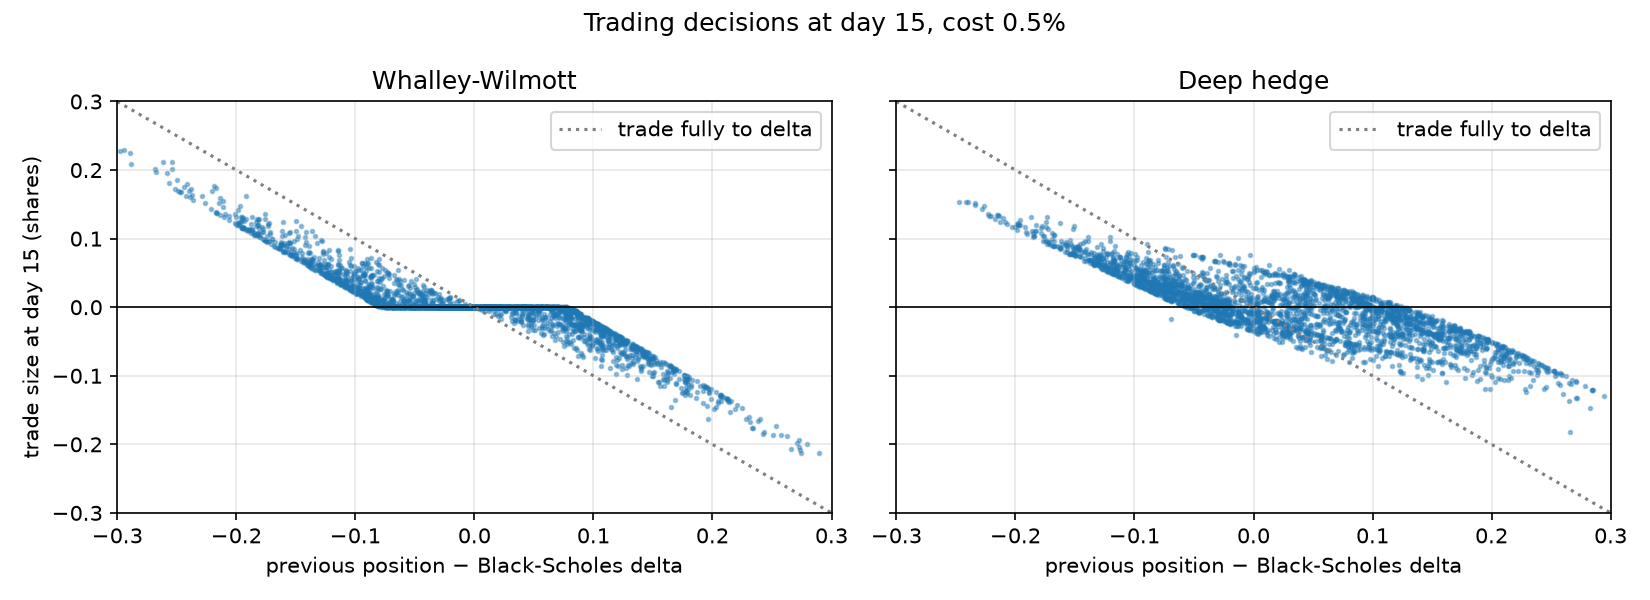
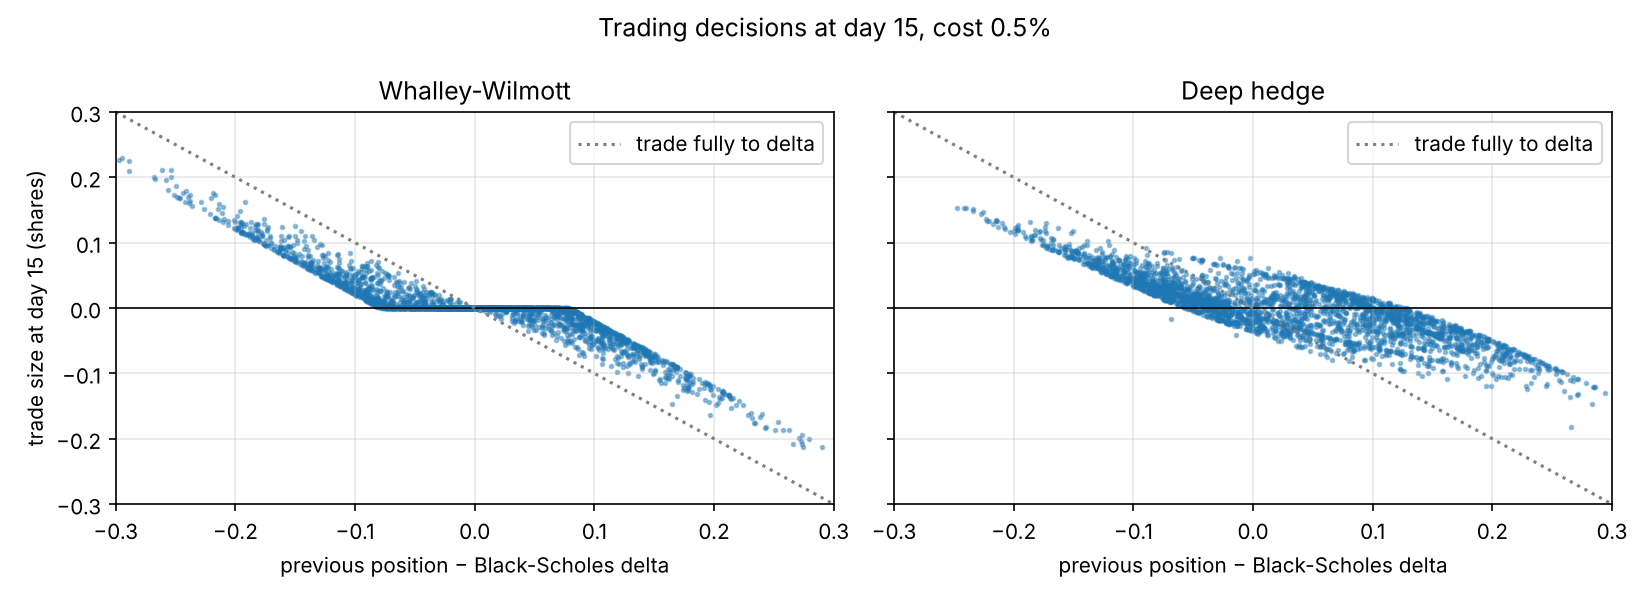
Combine training curves and strategy comparison into one figure

diff --git a/experiments/04_deep_hedging.py b/experiments/04_deep_hedging.py
@@ -12,8 +12,8 @@ figures can be regenerated without retraining. Delete models/ to retrain.
 Run from the repository root:
     python experiments/04_deep_hedging.py
 
-Saves figures/deep_training.png, figures/deep_vs_delta.png,
-figures/deep_comparison.png and figures/deep_no_trade.png,
+Saves figures/deep_comparison.png (training curves and risk of all strategies),
+figures/deep_vs_delta.png and figures/deep_no_trade.png,
 and prints a Markdown table.
 """
 
@@ -121,18 +121,35 @@ def main():
 
     FIGURES.mkdir(exist_ok=True)
 
-    # --- Figure 1: training curves ---------------------------------------
-    fig, ax = plt.subplots(figsize=(6, 4))
+    # --- Figure 1: training curves and hedging risk of all strategies -----
+    # Left: the training loss of the three deep hedgers.
+    # Right: the CVaR of all strategies on the test paths.
+    fig, (ax_left, ax_right) = plt.subplots(1, 2, figsize=(13, 4.5))
+
     for cost in COSTS:
-        ax.plot(losses[cost], linewidth=0.8, label=f"cost {cost:.1%}")
-    ax.set_xlabel("training iteration")
-    ax.set_ylabel(f"CVaR {ALPHA:.0%} loss (training batch)")
-    ax.set_ylim(0, 6)
-    ax.set_title("Training of the deep hedgers")
-    ax.grid(True, alpha=0.3)
-    ax.legend()
+        ax_left.plot(losses[cost], linewidth=0.8, label=f"cost {cost:.1%}")
+    ax_left.set_xlabel("training iteration")
+    ax_left.set_ylabel(f"CVaR {ALPHA:.0%} loss (training batch)")
+    ax_left.set_ylim(0, 6)
+    ax_left.set_title("Training of the deep hedgers")
+    ax_left.grid(True, alpha=0.3)
+    ax_left.legend()
+
+    width = 0.2
+    x = np.arange(len(COSTS))
+    for i, name in enumerate(STRATEGIES):
+        values = [results[c][name]["cvar"] for c in COSTS]
+        ax_right.bar(x + (i - 1.5) * width, values, width, label=name)
+    ax_right.set_xticks(x)
+    ax_right.set_xticklabels([f"cost {c:.1%}" for c in COSTS])
+    ax_right.set_ylabel(f"CVaR {ALPHA:.0%} of loss")
+    ax_right.set_title("Hedging risk on test paths")
+    ax_right.grid(True, axis="y", alpha=0.3)
+    ax_right.legend()
+
+    fig.suptitle("Deep hedging vs classical strategies (N = 30, Black-Scholes premium)")
     fig.tight_layout()
-    fig.savefig(FIGURES / "deep_training.png", dpi=150)
+    fig.savefig(FIGURES / "deep_comparison.png", dpi=150)
     plt.close(fig)
 
     # --- Figure 2: learned hedge vs Black-Scholes delta (no costs) ---------
@@ -160,24 +177,7 @@ def main():
     fig.savefig(FIGURES / "deep_vs_delta.png", dpi=150)
     plt.close(fig)
 
-    # --- Figure 3: CVaR of all strategies --------------------------------
-    width = 0.2
-    x = np.arange(len(COSTS))
-    fig, ax = plt.subplots(figsize=(7, 4))
-    for i, name in enumerate(STRATEGIES):
-        values = [results[c][name]["cvar"] for c in COSTS]
-        ax.bar(x + (i - 1.5) * width, values, width, label=name)
-    ax.set_xticks(x)
-    ax.set_xticklabels([f"cost {c:.1%}" for c in COSTS])
-    ax.set_ylabel(f"CVaR {ALPHA:.0%} of loss")
-    ax.set_title("Hedging risk on test paths (N = 30, Black-Scholes premium)")
-    ax.grid(True, axis="y", alpha=0.3)
-    ax.legend()
-    fig.tight_layout()
-    fig.savefig(FIGURES / "deep_comparison.png", dpi=150)
-    plt.close(fig)
-
-    # --- Figure 4: learned no-trade behaviour (cost 0.5%) -----------------
+    # --- Figure 3: learned no-trade behaviour (cost 0.5%) -----------------
     # x: how far the previous position is from the Black-Scholes delta
     # y: how much the strategy trades. A no-trade band shows up as a flat
     # region around x = 0 where the strategy does not trade.

diff --git a/README.md b/README.md
@@ -87,14 +87,15 @@ empirically as the γ with the lowest CVaR on separate training paths.
 ### Deep hedging
 
 A small neural network (3 → 32 → 32 → 1, previous position as input) trained by
-minimising the CVaR of the hedging losses, following Buehler et al. (2019).
+minimising the CVaR of the hedging losses, following Buehler et al. (2019). The 
+training loss of the three networks drops sharply in the first 200 iterations and then flattens.
 Without costs it recovers the Black–Scholes delta, except very close to maturity,
 where it learns a smoother hedge. With transaction costs it achieves the lowest
 CVaR of all strategies (2.23 vs 2.45 for the best classical strategy at 0.5% costs).
 Instead of a sharp no-trade band like Whalley–Wilmott, it learns to adjust its
 position only partially towards the delta.
 
-![Comparison of strategies](figures/deep_comparison.png)
+![Training and comparison of strategies](figures/deep_comparison.png)
 ![Learned hedge vs delta](figures/deep_vs_delta.png)
 ![Trading decisions](figures/deep_no_trade.png)
 
